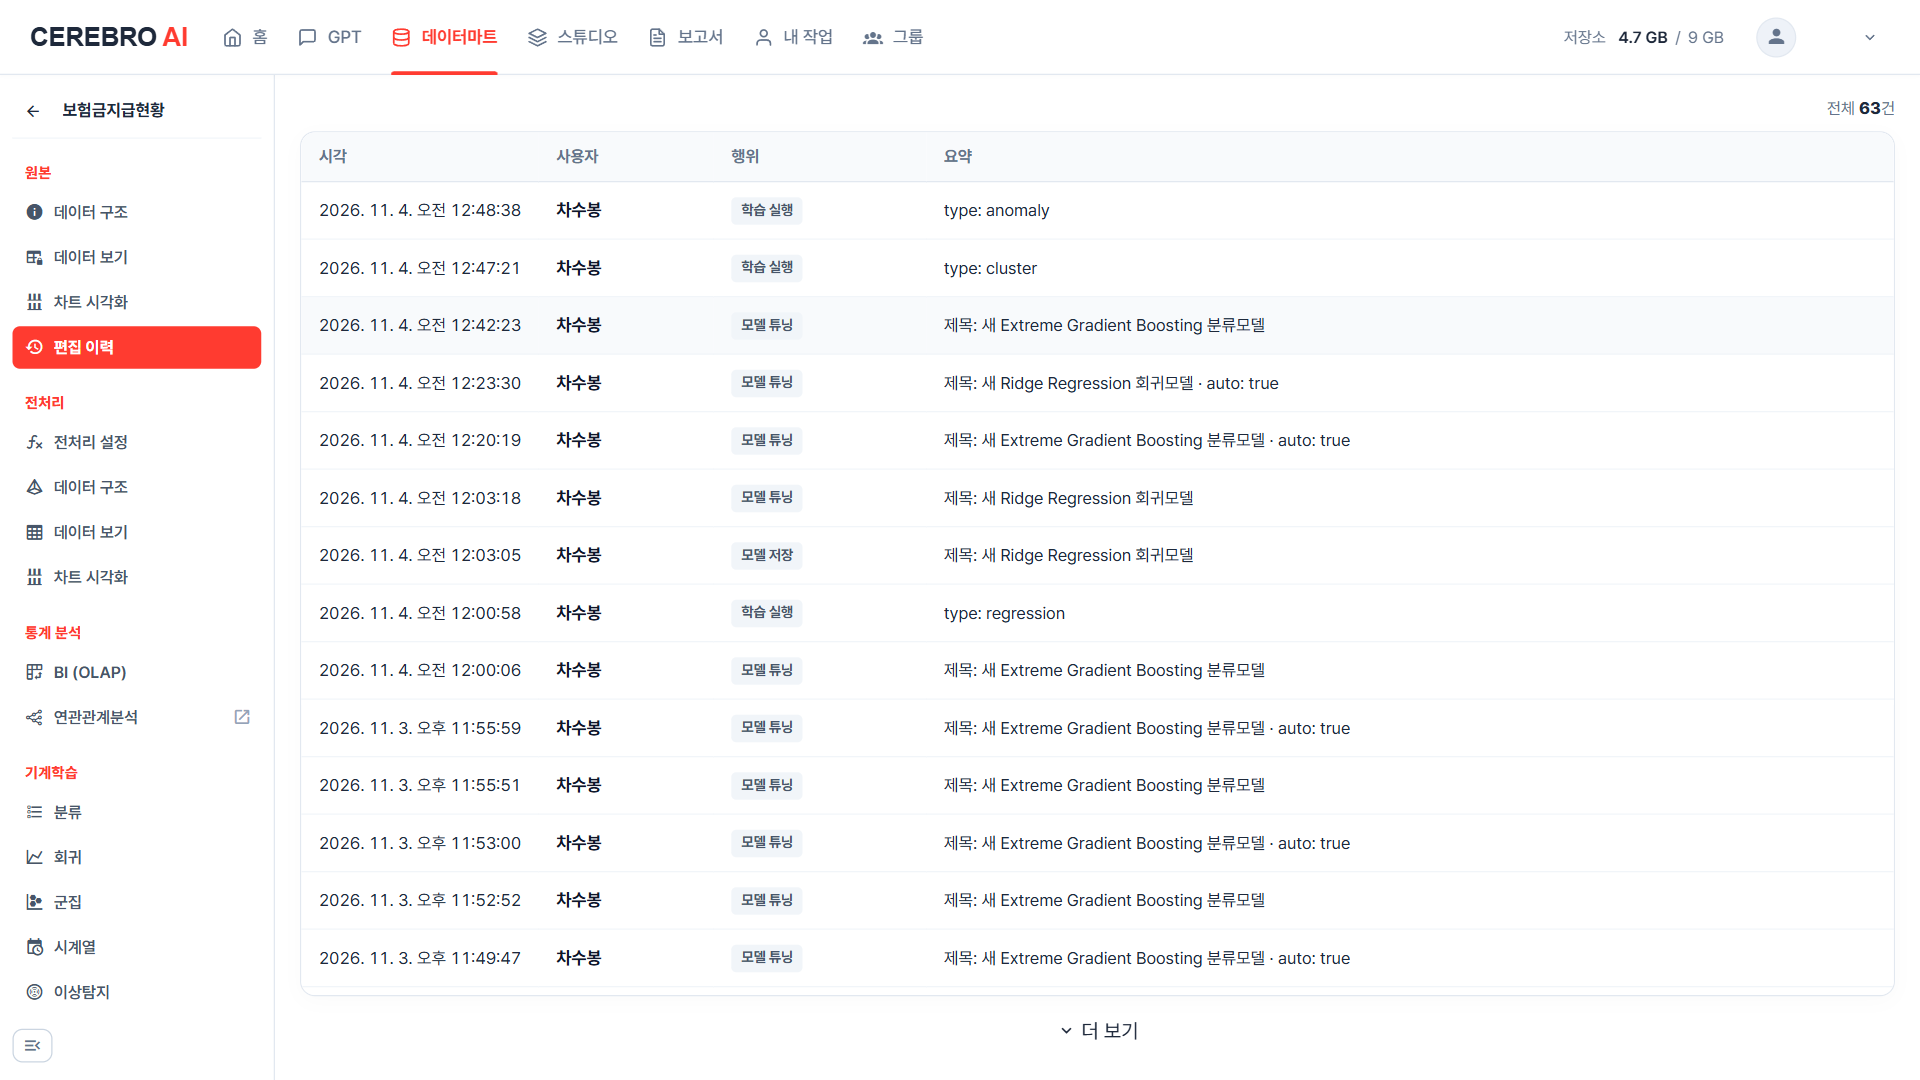
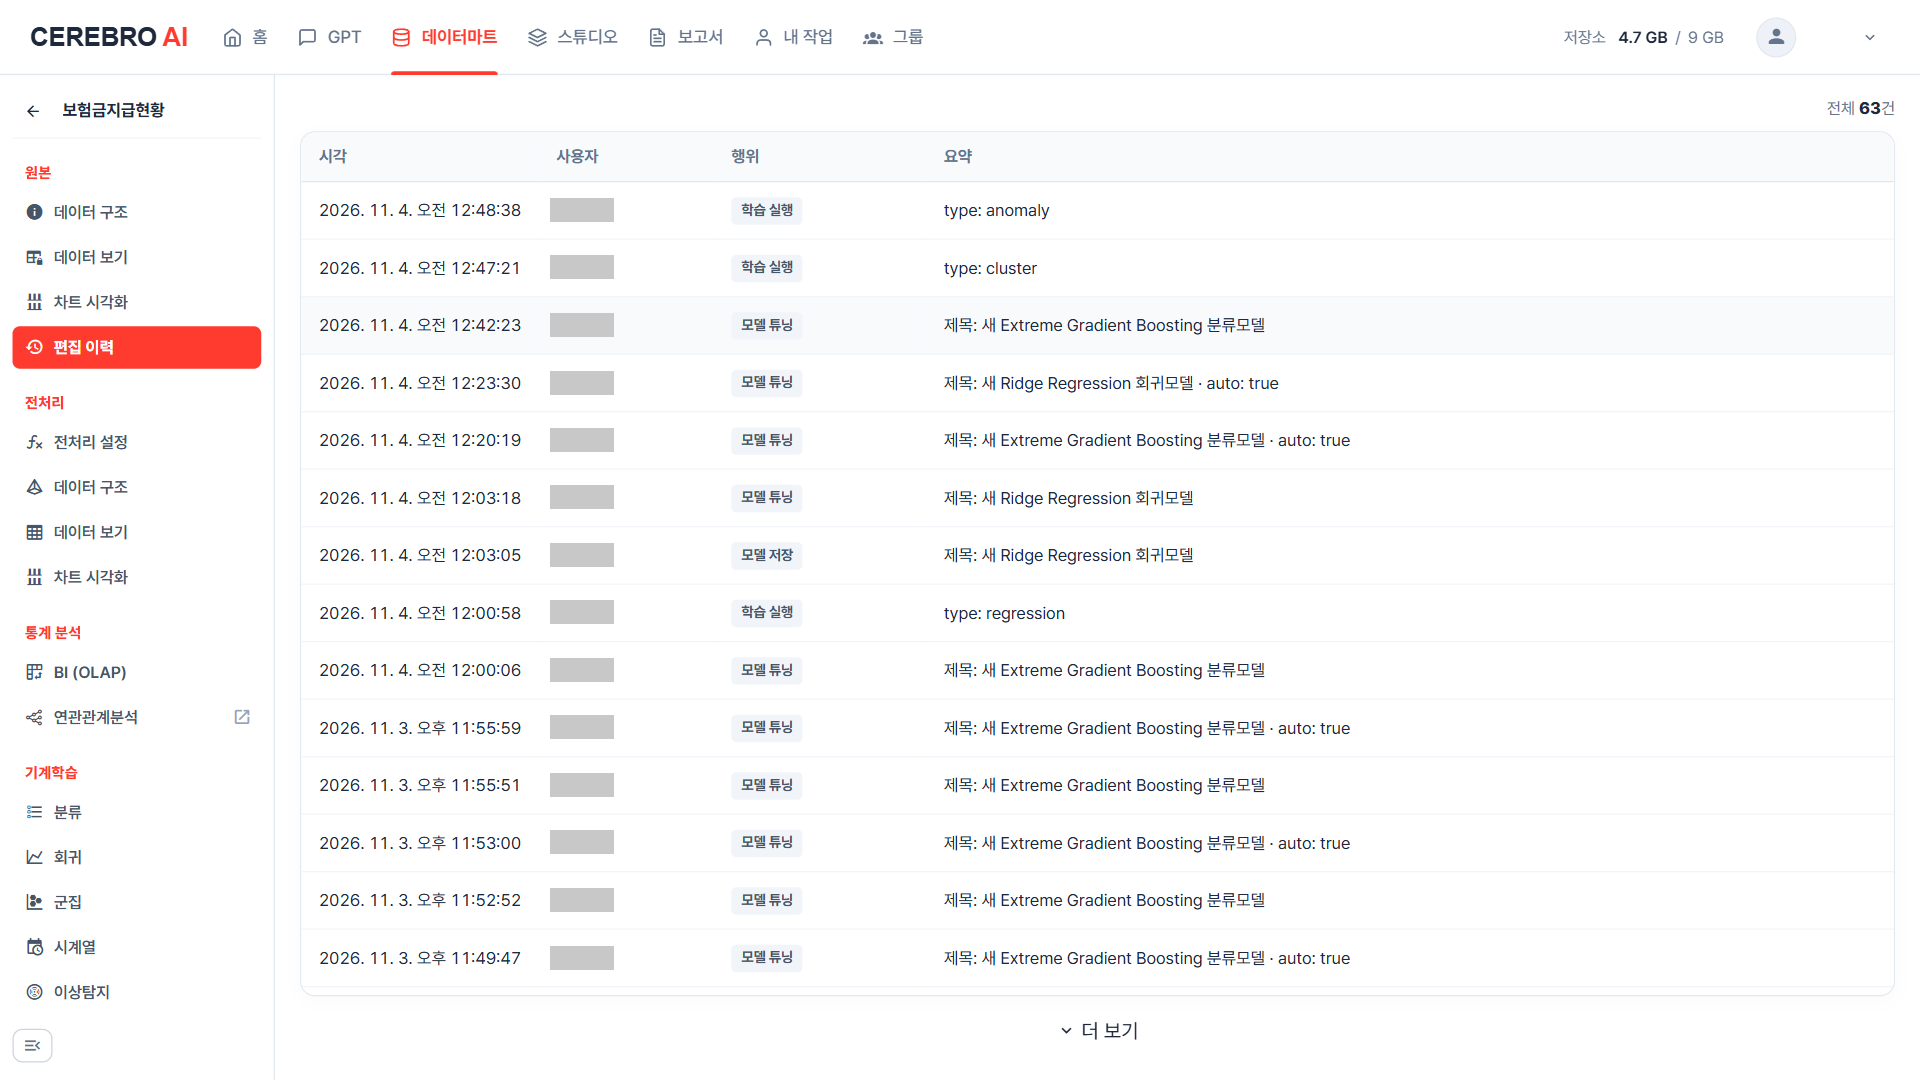
전처리 설정 문구 변경

diff --git a/사진구성_CEREBRO_AI_MANUAL_v0.3.md b/사진구성_CEREBRO_AI_MANUAL_v0.3.md
@@ -1002,7 +1002,7 @@ AI 모델 개발 과정을 자동화하여 분석 효율 향상
 
 #### 3.3.1 전처리 설정
 
-- 사용자 데이터를 다루기 쉬운 자료 형태로 변환하는 기능입니다.
+- 데이터 전처리는 데이터의 품질을 개선하는 과정으로, 특히 머신러닝 학습 전 데이터의 오류와 불일치를 점검하여 모델의 성능과 예측 결과의 신뢰성을 높이기 위한 필수적인 과정입니다.
     - 데이터 내 컬럼을 합치거나 가공하여 신규 생성 및 기존 컬럼을 삭제 할 수 있습니다.
     - 데이터 내 결측값, 중복값이 있을 경우 대체하여 가공할 수 있습니다.
     - 이상치를 처리하고 정규화 기능을 통해 데이터 스케일링을 지원합니다.

diff --git a/CEREBRO_AI_MANUAL_v0.3.md b/CEREBRO_AI_MANUAL_v0.3.md
@@ -774,7 +774,7 @@ AI 모델 개발 과정을 자동화하여 분석 효율 향상
 
 #### 3.3.1 전처리 설정
 
-- 사용자 데이터를 다루기 쉬운 자료 형태로 변환하는 기능입니다.
+- 데이터 전처리는 데이터의 품질을 개선하는 과정으로, 특히 머신러닝 학습 전 데이터의 오류와 불일치를 점검하여 모델의 성능과 예측 결과의 신뢰성을 높이기 위한 필수적인 과정입니다.
     - 데이터 내 컬럼을 합치거나 가공하여 신규 생성 및 기존 컬럼을 삭제 할 수 있습니다.
     - 데이터 내 결측값, 중복값이 있을 경우 대체하여 가공할 수 있습니다.
     - 이상치를 처리하고 정규화 기능을 통해 데이터 스케일링을 지원합니다.
